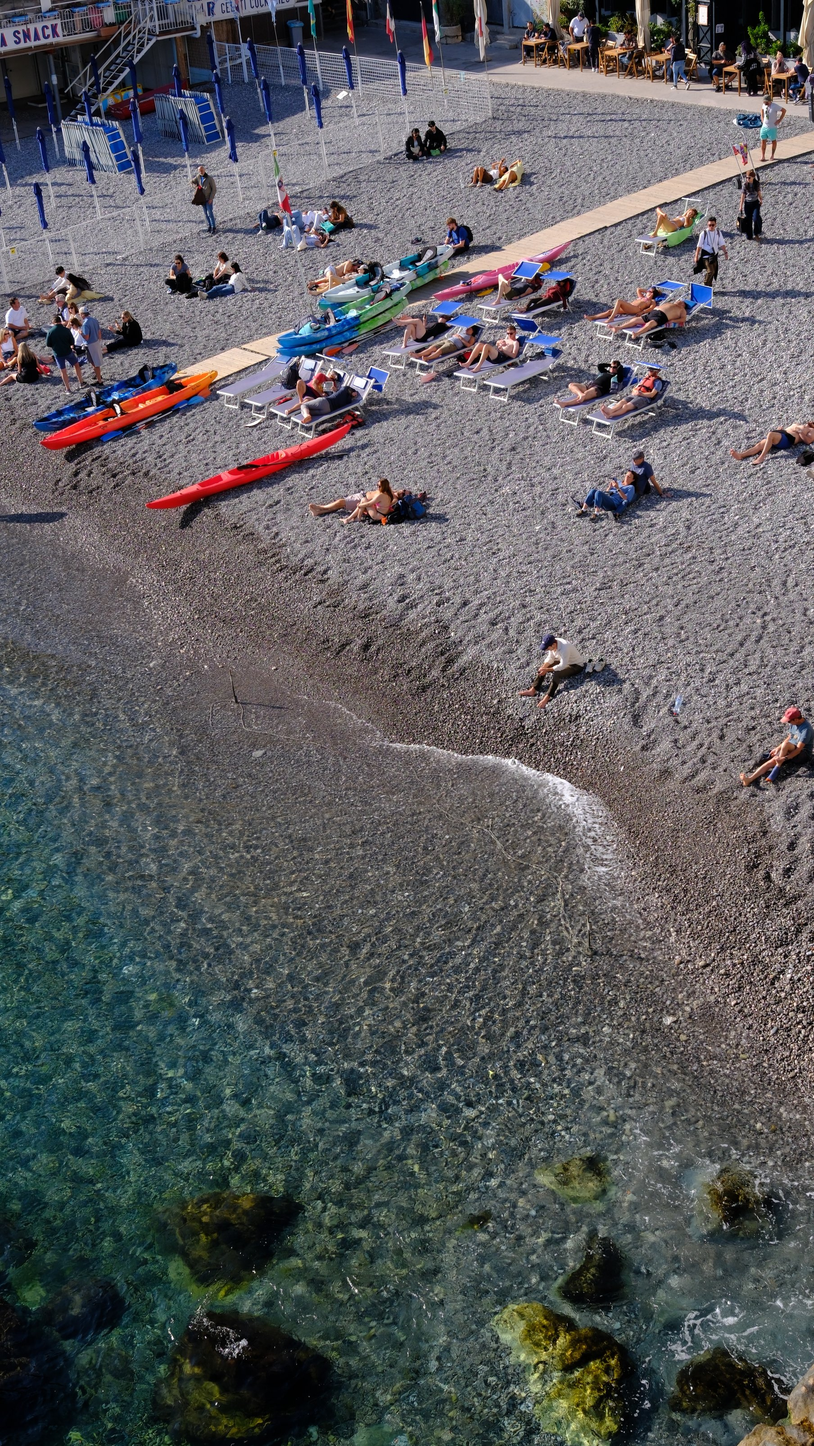
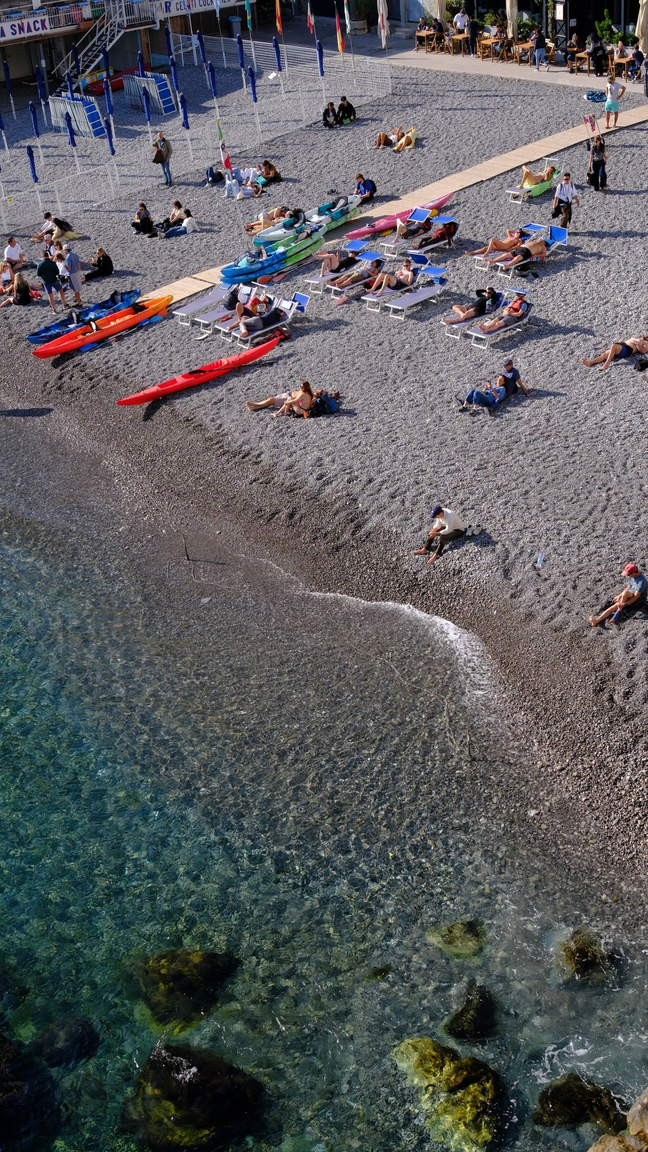
Shrink travel photos to 2560px and add optimize_images.py
Full-size gallery JPGs go from 1.1 GB to 157 MB (2560px long side, q85,
metadata stripped). optimize_images.py replaces generate_thumbnails.py and
also builds missing thumbnails.

diff --git a/travel/optimize_images.py b/travel/optimize_images.py
@@ -1,0 +1,153 @@
+#!/usr/bin/env python3
+"""Shrink travel gallery photos in place and (re)build their thumbnails.
+
+For every city under travel/<city>/images/:
+  * full-size JPGs are resized to --max-dimension on the long side and re-saved at
+    --quality (progressive, optimised). Orientation is baked in, the colour profile
+    is kept, and all other metadata (camera EXIF, GPS) is dropped. A file is only
+    replaced if the result is smaller, and photos already under --skip-under MB (or
+    --max-dimension) are skipped, so the script is safe to re-run after adding a new city.
+  * missing thumbnails are written to images/thumbnails/<stem>.JPG (--force-thumbs
+    rebuilds all of them). The video poster thumbnails/video.JPG is left alone.
+
+Usage (from the repo root or travel/):
+  python3 travel/optimize_images.py                # every city
+  python3 travel/optimize_images.py faro verona    # just these
+  python3 travel/optimize_images.py --dry-run      # report only
+
+Keep Pillow < 11 (surya-ocr pins it). HEIC sources need pillow-heif.
+"""
+
+from __future__ import annotations
+
+import argparse
+import io
+import os
+import sys
+from pathlib import Path
+
+from PIL import Image, ImageOps
+
+TRAVEL_DIR = Path(__file__).resolve().parent
+JPEG_EXTS = {".jpg", ".jpeg"}
+OTHER_EXTS = {".png", ".heic", ".heif"}
+
+try:  # optional HEIC support
+  import pillow_heif
+  pillow_heif.register_heif_opener()
+except ImportError:
+  pass
+
+
+def parse_args() -> argparse.Namespace:
+  p = argparse.ArgumentParser(description=__doc__.split("\n\n")[0])
+  p.add_argument("cities", nargs="*", help="City folder names (default: all).")
+  p.add_argument("--max-dimension", type=int, default=2560, help="Long side of full images, px.")
+  p.add_argument("--quality", type=int, default=85, help="JPEG quality for full images.")
+  p.add_argument("--skip-under", type=float, default=2.0,
+                 help="Skip full images that are already under this many MB (avoids re-compressing).")
+  p.add_argument("--thumb-size", type=int, default=800, help="Long side of thumbnails, px.")
+  p.add_argument("--thumb-quality", type=int, default=85, help="JPEG quality for thumbnails.")
+  p.add_argument("--force-thumbs", action="store_true", help="Rebuild every thumbnail.")
+  p.add_argument("--dry-run", action="store_true", help="Report what would change; write nothing.")
+  return p.parse_args()
+
+
+def encode(img: Image.Image, size: int, quality: int, icc: bytes | None) -> bytes:
+  img = img.copy()
+  img.thumbnail((size, size), Image.Resampling.LANCZOS)
+  if img.mode not in ("L", "RGB"):
+    img = img.convert("RGB")
+  buf = io.BytesIO()
+  opts = dict(format="JPEG", quality=quality, optimize=True, progressive=True)
+  if icc:
+    opts["icc_profile"] = icc
+  img.save(buf, **opts)
+  return buf.getvalue()
+
+
+def write_atomic(path: Path, data: bytes) -> None:
+  tmp = path.with_name(f".{path.name}.tmp")
+  tmp.write_bytes(data)
+  os.replace(tmp, path)
+
+
+def mb(n: int) -> str:
+  return f"{n / 1e6:.1f} MB"
+
+
+def process_city(city: Path, args: argparse.Namespace) -> tuple[int, int]:
+  images = city / "images"
+  thumbs = images / "thumbnails"
+  before = after = 0
+  files = sorted(p for p in images.iterdir() if p.is_file() and not p.name.startswith("."))
+
+  for path in files:
+    ext = path.suffix.lower()
+    if ext in OTHER_EXTS:
+      print(f"  ! {path.name}: not a JPG, left as is (convert it and update index.html)")
+      continue
+    if ext not in JPEG_EXTS:
+      continue  # videos etc.
+
+    size = path.stat().st_size
+    before += size
+    try:
+      with Image.open(path) as raw:
+        icc = raw.info.get("icc_profile")
+        img = ImageOps.exif_transpose(raw)
+        img.load()
+    except Exception as exc:  # noqa: BLE001 - keep going
+      print(f"  ! {path.name}: cannot open ({exc})", file=sys.stderr)
+      after += size
+      continue
+
+    small_enough = max(img.size) <= args.max_dimension or size <= args.skip_under * 1e6
+    if small_enough:
+      after += size
+    else:
+      data = encode(img, args.max_dimension, args.quality, icc)
+      if len(data) < size:
+        print(f"  {path.name}: {img.width}x{img.height} {mb(size)} -> {mb(len(data))}")
+        if not args.dry_run:
+          write_atomic(path, data)
+        after += len(data)
+      else:
+        after += size
+
+    thumb = thumbs / f"{path.stem}.JPG"
+    if path.stem.lower().startswith("video"):
+      continue  # video posters are hand-made, not gallery photos
+    if args.force_thumbs or not thumb.exists():
+      print(f"  thumbnail {thumb.name}")
+      if not args.dry_run:
+        thumbs.mkdir(exist_ok=True)
+        write_atomic(thumb, encode(img, args.thumb_size, args.thumb_quality, icc))
+
+  return before, after
+
+
+def main() -> None:
+  args = parse_args()
+  if args.cities:
+    cities = [TRAVEL_DIR / c for c in args.cities]
+  else:
+    cities = sorted(p for p in TRAVEL_DIR.iterdir() if (p / "images").is_dir())
+
+  total_before = total_after = 0
+  for city in cities:
+    if not (city / "images").is_dir():
+      print(f"{city.name}: no images/ folder, skipped", file=sys.stderr)
+      continue
+    print(city.name)
+    b, a = process_city(city, args)
+    print(f"  {mb(b)} -> {mb(a)}")
+    total_before += b
+    total_after += a
+
+  label = "would be" if args.dry_run else "now"
+  print(f"\nFull-size JPGs: {mb(total_before)} -> {label} {mb(total_after)}")
+
+
+if __name__ == "__main__":
+  main()
